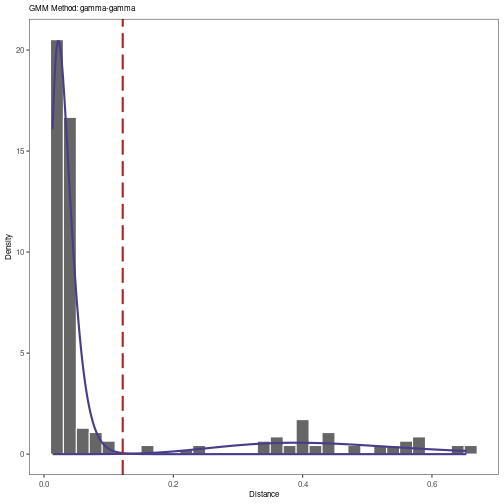
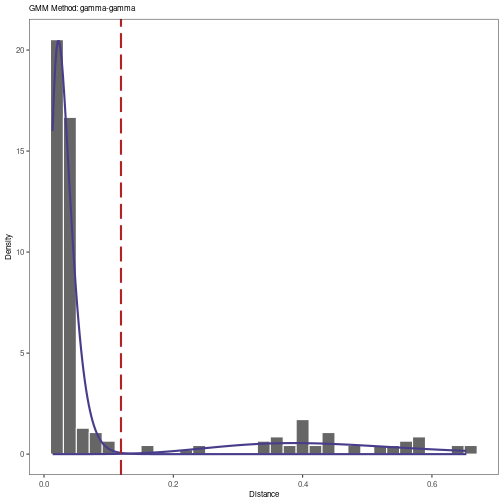
lots of typo fixing, docs rebuild

diff --git a/docs/vignettes/Shmulate-Vignette.md b/docs/vignettes/Shmulate-Vignette.md
@@ -30,7 +30,7 @@ shmulateSeq(sequence, numMutations=6)
 ```
 
 ```
-## [1] "NGATCTGGCGACACGGCCATGTGTTACTGTGCGAGAAAAA.TTTG"
+## [1] "NGATCTGACGACACGGCCGTCTTTTACTGTGCGAGGGGTG.TTTG"
 ```
 
 ```r
@@ -39,7 +39,7 @@ shmulateSeq(sequence, numMutations=0.2, frequency=TRUE)
 ```
 
 ```
-## [1] "NAGTCCGACGACACGGCCGTCAATTATTGTGCGCGAGGTA.TTCA"
+## [1] "NGATTTGACGTCACAGCCAAATTTTACTGTGCGAGAGAGA.TTTC"
 ```
 
 ```r
@@ -48,7 +48,7 @@ shmulateSeq(sequence, numMutations=4, targetingModel=MK_RS5NF)
 ```
 
 ```
-## [1] "NGCTCTGACGACACGGCCGTGTATTATTGTGCGAAAAATA.TTTA"
+## [1] "NGGTCTAACAACACGGCCGTGCATTACTGTGCGAGAGATA.TTTA"
 ```
 
 ## Simulate mutations in a lineage tree
@@ -78,13 +78,13 @@ shmulateTree(sequence, graph)
 ```
 ##             name                                      sequence distance
 ## 1      Inferred1 NGATCTGACGACACGGCCGTGTATTACTGTGCGAGAGATAGTTTA        0
-## 2 GN5SHBT07JDYW5 NGATCTGACGACACGGGCGTGTATTACTGTGCGAGAGAAAGTTTA        2
-## 3 GN5SHBT03EP4KC NGATCTGACGACACGGGTGTGTATTATTGTGCGAGAGACAGTTTA        3
-## 4 GN5SHBT01AKANC NTATCTGGCGACACGGCCGTGTATTATTGTGCGGGAGATAGTTTA        4
-## 5 GN5SHBT01A3SFZ NGACCAGCCGACACGGGCGCATATTACTGTGCCAGAGAAAGTTTA        6
-## 6 GN5SHBT08HUU7M NCATCTGACGACACGGGTGTTTATTATTGGGCGAGAGACAGTTTA        3
-## 7 GN5SHBT04CEA6I NGATCTGACGACACGGGCGTCTATTACTGTGCGAGAGAAAGTTTA        1
-## 8 GN5SHBT06IXJIH NGATCTGACGCCACGGGCGTGTATTACTGTGCGAGAGAAAGTTTA        1
+## 2 GN5SHBT07JDYW5 NAATCTGACGACACGGCCGTGTCTTACTGTGCGAGAGATAGTTTA        2
+## 3 GN5SHBT03EP4KC NAGTCTGACGACACAGCCGTGTCTTACTGTGCGAGAGATAATTTA        3
+## 4 GN5SHBT01AKANC NGGTCTGACGACACGGCCGTGCATTACTGTGCGAGAGATGGTCTA        4
+## 5 GN5SHBT01A3SFZ NGATCCGCCTACACGGCCGTGTCCTACTGTGCGAGAGATACTTTA        6
+## 6 GN5SHBT08HUU7M NAGTCTGACGACACAGACGAGTCTTACTGTGCGAGAGATAATTTT        3
+## 7 GN5SHBT04CEA6I NAATCTGACGACACGGCCGTGTCCTACTGTGCGAGAGATAGTTTA        1
+## 8 GN5SHBT06IXJIH NAATCTGACGACACGGCCGTGTCCTACTGTGCGAGAGATAGTTTA        1
 ```
 
 It is possible to exclude certain specified nodes from being considered as the MRCA and from being included as part of the simulation. To specify such nodes, use the `field` argument to indicate which annotation field in `vertex_attr(graph)` contains information relevant to deciding which nodes to exclude, and the `exclude` argument to indicate the value in the annotation field that nodes to be excluded carry.
@@ -120,11 +120,11 @@ shmulateTree(sequence, graph, field="sample_id", exclude=NA)
 ```
 ##             name                                      sequence distance
 ## 1 GN5SHBT07JDYW5 NGATCTGACGACACGGCCGTGTATTACTGTGCGAGAGATAGTTTA        0
-## 2 GN5SHBT03EP4KC NGATCAGACGACACGGCCGTGTATTACTGTGCGAGAGATACTTTC        3
-## 3 GN5SHBT01A3SFZ NGACGTGACGACACGGCCGTGTATTATTGTGCGAGGGAAAATTTA        6
-## 4 GN5SHBT08HUU7M NGATCAGCCGACACGGCCGTGTATTATTGTGCGAGATATACTTTC        3
-## 5 GN5SHBT04CEA6I NGATCTGACGACACGGCCGAGTATTACTGTGCGAGAGATAGTTTA        1
-## 6 GN5SHBT06IXJIH NGATCTGACGACACGGCCGTGTATTTCTGTGCGAGAGATAGTTTA        1
+## 2 GN5SHBT03EP4KC NGATCTGACGACACGGCCCTGTATTGCTGTGCGAGAAATAGTTTA        3
+## 3 GN5SHBT01A3SFZ NGATCTGACGAAACGGCCGTGCATGACTGTGCGAAAGAGAGTGTA        6
+## 4 GN5SHBT08HUU7M NGATGTGACGACACGGCCCTGTATTGCTGTGCGAGAAATGCTTTA        3
+## 5 GN5SHBT04CEA6I NGACCTGACGACACGGCCGTGTATTACTGTGCGAGAGATAGTTTA        1
+## 6 GN5SHBT06IXJIH NGATCTGACGACACGGCCGTGTATTATTGTGCGAGAGATAGTTTA        1
 ```
 
 It is also possible to add a proportional number of mutations to the immediate offsprings of the MRCA based on the fraction of the nucleotide sequence that is within the junction region. This is achieved via the optional `junctionWeight` argument, to be supplied as a numeric value between `0` and `1`.
@@ -148,11 +148,11 @@ shmulateTree(sequence, graph, junctionWeight=0.2)
 ```
 ##             name                                      sequence distance
 ## 1      Inferred1 NGATCTGACGACACGGCCGTGTATTACTGTGCGAGAGATAGTTTA        0
-## 2 GN5SHBT07JDYW5 NGAACTGACGACACGGCCGTGTATTACTGTGCGAGAGATAGTTCA        2
-## 3 GN5SHBT03EP4KC NGAGCTGACGACACGGCCGTGTACAACTGTGCGAGAGATAGTTCA        3
-## 4 GN5SHBT01AKANC NGATCTGGCGACACGCCCGTATATTATTGTGCGAGAGATAATTTA        5
-## 5 GN5SHBT01A3SFZ NGAATTGACGACACGGCCGTGTGTTACTTCGCGAGAGATATTTCG        6
-## 6 GN5SHBT08HUU7M NGAGCTGACGACACGGCCGTGTACGAATGTGCGAGAGATACTTCA        3
-## 7 GN5SHBT04CEA6I NGAACTGACGACACGGCCGTGTATTACTGTGCGAGAGATAGTTCC        1
-## 8 GN5SHBT06IXJIH NGAACTGACGACACGGCCGTGTATTACTGTGCGAGCGATAGTTCA        1
+## 2 GN5SHBT07JDYW5 NGATCTGACGACACGGCCGTCTATTACTGTGCGAGAGATAGTGTA        2
+## 3 GN5SHBT03EP4KC NGGTCTGACGACACGGCCGTCTATTACTGTGCGAGAAATAGTATA        3
+## 4 GN5SHBT01AKANC NAATCTGACGGCACGGTCGTATATTACTGTGCGAGAGATACTTTA        5
+## 5 GN5SHBT01A3SFZ NAATGTGACGACACGGCCGTTGACTACTGTTCGAGAGATAGTGTA        6
+## 6 GN5SHBT08HUU7M NGGTCTGACGACACGGCCTTCTATTCCTGTGCGAGAAAGAGTATA        3
+## 7 GN5SHBT04CEA6I NGATCTGACGACACGGCCGTCTATTACTATGCGAGAGATAGTGTA        1
+## 8 GN5SHBT06IXJIH NGATCTGACGACACGGCCGTCTTTTACTGTGCGAGAGATAGTGTA        1
 ```

diff --git a/docs/vignettes/DistToNearest-Vignette.md b/docs/vignettes/DistToNearest-Vignette.md
@@ -283,7 +283,7 @@ print(output)
 ```
 
 ```
-## [1] 0.1217354
+## [1] 0.1190462
 ```
 
 **Note:** The shape of histogram plotted by `plotGmmThreshold` is

diff --git a/docs/topics/findThreshold.md b/docs/topics/findThreshold.md
@@ -145,7 +145,7 @@ print(output)
 
 
 ```
-[1] 0.24172
+[1] 0.2472658
 
 ```
 
